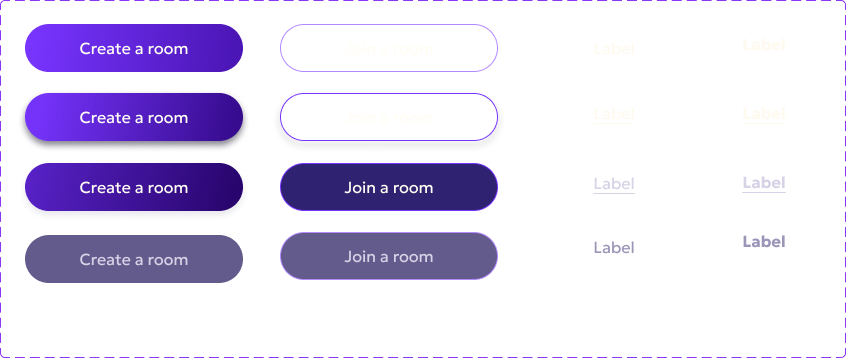
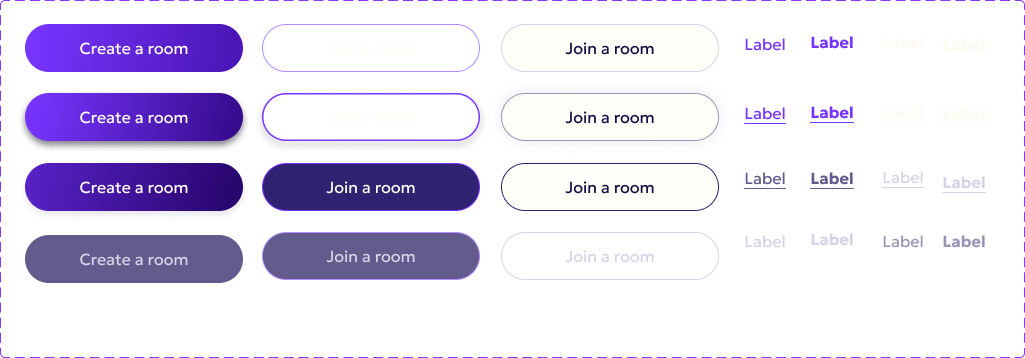
fixed-ui-mistake

diff --git a/src/components/BrandButton/BrandButton.css b/src/components/BrandButton/BrandButton.css
@@ -20,38 +20,58 @@
     transform 0.12s ease,
     box-shadow 0.2s ease,
     background 0.2s ease,
-    border-color 0.2s ease,
-    filter 0.2s ease;
+    border-color 0.2s ease;
 }
 
 .brand-button--primary {
-  background: linear-gradient(90deg, var(--l-violet-light), var(--l-violet-dark));
+  background: linear-gradient(90deg, #7835ff, #4a15b5);
 }
 
 .brand-button--primary:hover {
-  box-shadow: 0 8px 28px rgba(118, 52, 252, 0.45);
-  filter: brightness(1.12);
+  background: linear-gradient(90deg, #7533fa, #370c8e);
+  box-shadow: 0 4px 12px rgba(5, 0, 26, 0.55);
 }
 
 .brand-button--primary:active {
-  background: linear-gradient(90deg, #5d24d4, #3b0f94);
+  background: linear-gradient(90deg, #5721c5, #28056e);
   box-shadow: none;
-  filter: none;
   transform: translateY(1px) scale(0.98);
 }
 
+/* Outlined button on dark surfaces */
 .brand-button--ghost {
   border-color: var(--l-accent);
   background: transparent;
 }
 
 .brand-button--ghost:hover {
-  background: rgba(177, 138, 255, 0.14);
-  box-shadow: 0 0 0 3px rgba(177, 138, 255, 0.12);
+  border-color: #7835ff;
+  box-shadow:
+    inset 0 0 0 0.5px #7835ff,
+    0 4px 10px rgba(0, 0, 30, 0.22);
 }
 
 .brand-button--ghost:active {
-  background: rgba(177, 138, 255, 0.28);
+  border-color: #7835ff;
+  background: #2f2270;
+  box-shadow: none;
+  transform: translateY(1px) scale(0.98);
+}
+
+/* Cream button for light surfaces (UI kit, third column) */
+.brand-button--light {
+  border-color: #d8d2e6;
+  background: #fffdf7;
+  color: #170e43;
+}
+
+.brand-button--light:hover {
+  border-color: #9b95b8;
+  box-shadow: 0 4px 12px rgba(57, 0, 142, 0.1);
+}
+
+.brand-button--light:active {
+  border-color: #2f2270;
   box-shadow: none;
   transform: translateY(1px) scale(0.98);
 }
@@ -61,14 +81,31 @@
   outline-offset: 3px;
 }
 
+.brand-button--light:focus-visible {
+  outline-color: #7835ff;
+}
+
+/* disabled (UI kit): #645b8d fill, lavender text; the outlined one keeps its lilac border */
 .brand-button:disabled,
 .brand-button:disabled:hover,
 .brand-button:disabled:active {
   border-color: transparent;
-  background: #6f6a8c;
+  background: #645b8d;
   box-shadow: none;
-  color: rgba(255, 255, 255, 0.7);
+  color: #d8d2e6;
   cursor: not-allowed;
-  filter: none;
   transform: none;
+}
+
+.brand-button--ghost:disabled,
+.brand-button--ghost:disabled:hover,
+.brand-button--ghost:disabled:active {
+  border-color: var(--l-accent);
+}
+
+.brand-button--light:disabled,
+.brand-button--light:disabled:hover,
+.brand-button--light:disabled:active {
+  border-color: #d8d2e6;
+  background: transparent;
 }

diff --git a/src/components/BrandField/BrandField.css b/src/components/BrandField/BrandField.css
@@ -1,4 +1,4 @@
-/* Figma: 52px tall pill, violet border, hint 14px under the input */
+/* Figma: 52px tall pill, 1px border, hint 14px under the input */
 .brand-field__label {
   display: block;
   margin-bottom: 8px;
@@ -12,6 +12,11 @@
   position: relative;
 }
 
+/*
+ * UI kit states (dark): every state keeps a 1px border, only the fill and the border colour change.
+ * default (empty, idle) #2f2270 fill · hover / focus / filled #170e43 fill · error #930002 border ·
+ * success #00924e border · disabled #645b8d. No glow ring and no icon (removed in the new kit).
+ */
 .brand-field__input {
   display: block;
   width: 100%;
@@ -21,49 +26,46 @@
   border-radius: 999px;
   background: #170e43;
   color: #fffaef;
+  caret-color: #fffaef;
   font-family: var(--l-font-text);
   font-size: 14px;
   transition:
     border-color 0.15s ease,
-    box-shadow 0.15s ease,
     background-color 0.15s ease;
 }
 
 .brand-field__input::placeholder {
   color: #9b95b8;
   opacity: 1;
+  transition: color 0.15s ease;
 }
 
-.brand-field__input:hover {
-  border-color: #d0b6ff;
+/* default: empty and not hovered / focused */
+.brand-field__input:placeholder-shown:not(:hover, :focus, :disabled) {
+  background: #2f2270;
 }
 
 .brand-field__input:focus {
-  border-color: #e6d8ff;
   outline: none;
-  box-shadow: 0 0 0 3px rgba(177, 138, 255, 0.28);
 }
 
-.brand-field__input:disabled {
-  border-color: transparent;
-  background: #6f6a8c;
-  cursor: not-allowed;
+/* focus: the placeholder fades into the fill, only the caret stays visible */
+.brand-field__input:focus::placeholder {
+  color: #2f2270;
 }
 
 .brand-field--error .brand-field__input {
-  padding-right: 52px;
-  border-color: #c1272d;
+  border-color: #930002;
 }
 
-.brand-field--error .brand-field__input:focus {
-  box-shadow: 0 0 0 3px rgba(193, 39, 45, 0.3);
+.brand-field--success .brand-field__input {
+  border-color: #00924e;
 }
 
-.brand-field__error-icon {
-  position: absolute;
-  top: 16px;
-  right: 20px;
-  color: #ff7a80;
+.brand-field__input:disabled {
+  border-color: #645b8d;
+  background: #645b8d;
+  cursor: not-allowed;
 }
 
 .brand-field__message {
@@ -85,9 +87,4 @@
 
 .brand-field__input:read-only:not(:disabled) {
   cursor: text;
-}
-
-/* Lighter fill, as on the "Join a movie room" page */
-.brand-field--raised .brand-field__input {
-  background: #2f2270;
 }

diff --git a/src/components/BrandField/BrandField.jsx b/src/components/BrandField/BrandField.jsx
@@ -2,27 +2,12 @@ import { useId } from 'react';
 import { cx } from '../../utils/classNames.js';
 import './BrandField.css';
 
-function ErrorIcon() {
-  return (
-    <svg
-      className="brand-field__error-icon"
-      width="20"
-      height="20"
-      viewBox="0 0 20 20"
-      aria-hidden="true"
-    >
-      <circle cx="10" cy="10" r="8.5" fill="none" stroke="currentColor" strokeWidth="1.4" />
-      <path d="M10 5.5v5.5" stroke="currentColor" strokeWidth="1.6" strokeLinecap="round" />
-      <circle cx="10" cy="14" r="1" fill="currentColor" />
-    </svg>
-  );
-}
-
 /**
  * Text input of the dark theme: label above, hint under the input (replaced by the error
- * message when there is one). States: default / hover / focus / filled / error / disabled.
+ * message when there is one). States: default / hover / focus / filled / error / success /
+ * disabled. `success` paints the border green (e.g. a valid name); an error wins over it.
  */
-export default function BrandField({ label, hint, error, size, tone, className, ...inputProps }) {
+export default function BrandField({ label, hint, error, success, size, className, ...inputProps }) {
   const id = useId();
   const messageId = `${id}-message`;
   const message = error || hint;
@@ -32,8 +17,8 @@ export default function BrandField({ label, hint, error, size, tone, className, 
       className={cx(
         'brand-field',
         size === 'lg' && 'brand-field--lg',
-        tone === 'raised' && 'brand-field--raised',
         error && 'brand-field--error',
+        !error && success && 'brand-field--success',
         className,
       )}
     >
@@ -50,7 +35,6 @@ export default function BrandField({ label, hint, error, size, tone, className, 
           aria-describedby={message ? messageId : undefined}
           {...inputProps}
         />
-        {error && <ErrorIcon />}
       </div>
       {message && (
         <p className="brand-field__message" id={messageId} role={error ? 'alert' : undefined}>

diff --git a/src/components/JoinRoom/JoinRoom.jsx b/src/components/JoinRoom/JoinRoom.jsx
@@ -31,7 +31,8 @@ export default function JoinRoom({ title, code, onJoined }) {
   const [isSubmitting, setIsSubmitting] = useState(false);
 
   const roomCode = code ?? extractRoomCode(link);
-  const isValid = Boolean(roomCode) && !validateDisplayName(name);
+  const isNameValid = !validateDisplayName(name);
+  const isValid = Boolean(roomCode) && isNameValid;
 
   const linkError =
     !code && isLinkTouched && link.trim() && !roomCode ? BAD_LINK_MESSAGE : serverErrors.link;
@@ -76,10 +77,10 @@ export default function JoinRoom({ title, code, onJoined }) {
             <div className="join-room__fields">
               {!code && (
                 <BrandField
-                  tone="raised"
                   label="Room link"
                   placeholder="Paste the invite link or the room code"
                   error={linkError}
+                  success={Boolean(roomCode)}
                   maxLength={300}
                   value={link}
                   onBlur={() => setIsLinkTouched(true)}
@@ -90,11 +91,11 @@ export default function JoinRoom({ title, code, onJoined }) {
                 />
               )}
               <BrandField
-                tone={code ? undefined : 'raised'}
                 label="Your name"
                 placeholder="Enter your name"
                 hint={code ? undefined : 'This is how other participants will see you.'}
                 error={nameError}
+                success={isNameValid}
                 maxLength={MAX_INPUT_LENGTH}
                 value={name}
                 onChange={(event) => {

diff --git a/src/components/BrandButton/BrandButton.jsx b/src/components/BrandButton/BrandButton.jsx
@@ -2,7 +2,8 @@ import { cx } from '../../utils/classNames.js';
 import './BrandButton.css';
 
 /**
- * Pill button of the new design. variant: 'primary' (violet gradient) | 'ghost' (outlined).
+ * Pill button of the new design. variant: 'primary' (violet gradient) | 'ghost' (outlined)
+ * | 'light' (cream, for light surfaces).
  * `as="a"` renders a link that looks the same (e.g. "Share on Telegram").
  */
 export default function BrandButton({

diff --git a/src/components/LandingHeader/LandingHeader.css b/src/components/LandingHeader/LandingHeader.css
@@ -33,7 +33,7 @@
   line-height: 1;
   cursor: pointer;
   transition:
-    opacity 0.12s ease,
+    color 0.12s ease,
     transform 0.12s ease;
 }
 
@@ -46,8 +46,11 @@
   text-underline-offset: 6px;
 }
 
+/* pressed (UI kit): lavender text, underline stays */
 .landing-header__link:active {
-  opacity: 0.65;
+  color: #d8d2e6;
+  text-decoration: underline;
+  text-underline-offset: 6px;
   transform: scale(0.97);
 }
 

diff --git a/src/components/BrandHeader/BrandHeader.css b/src/components/BrandHeader/BrandHeader.css
@@ -35,7 +35,7 @@
   line-height: 1;
   cursor: pointer;
   transition:
-    opacity 0.12s ease,
+    color 0.12s ease,
     transform 0.12s ease;
 }
 
@@ -44,8 +44,11 @@
   text-underline-offset: 6px;
 }
 
+/* pressed (UI kit): lavender text, underline stays */
 .brand-header__back:active {
-  opacity: 0.65;
+  color: #d8d2e6;
+  text-decoration: underline;
+  text-underline-offset: 6px;
   transform: scale(0.97);
 }
 

diff --git a/src/pages/CreateRoomPage/CreateRoomPage.jsx b/src/pages/CreateRoomPage/CreateRoomPage.jsx
@@ -116,6 +116,7 @@ export default function CreateRoomPage() {
               hint="This is how other participants will see you."
               value={form.hostName}
               error={nameError}
+              success={!validateDisplayName(form.hostName)}
               maxLength={60}
               onChange={handleNameChange}
             />

diff --git a/design/README.md b/design/README.md
@@ -8,3 +8,16 @@ Figma exports for the "What to Watch" (W2W) redesign. Keep them as the source of
 - `ui-kit/text-styles.png` - typography: Hero Geologica Black 96/100, H1 Geologica Black 64/100, H2 Geologica Bold 48/120,
   H3 Geologica Bold 36/120, H4 Geologica Regular 24/135, Main text Inter Regular 16/150, Secondary text Inter Regular 14/150,
   Button text Geologica Regular 16/100 (size / line-height %).
+
+## UI kit v2 (November 2026)
+
+- `ui-kit/UI-Kit-v2.png` - updated kit. Inputs (dark): default #2f2270 fill, hover / focus / filled #170e43, 1px border
+  #b18aff, error border #930002, success border #00924e, disabled #645b8d, no error icon, no glow; focus fades the placeholder.
+  Buttons: ghost hover border #7835ff, pressed #2f2270 fill, disabled #645b8d; new cream "light" button and violet text
+  links for light surfaces; light (cream) inputs.
+- Not built yet (movie picking / results / account pages): progress bar "7 / 20", round icon button (heart),
+  movie navigation (X / heart, "Swipe or tap to vote"), participant progress chips (Done / Swiping... / Waiting...),
+  user menu (name pill with Profile / Settings / Log out), swipe movie card, movie details card (Director, Cast,
+  Age rating, Budget, Revenue, Original language, Close details), result cards ("4 / 4 liked it" with crown, View details;
+  compact "3 / 4 liked it" with Details), translucent header variant, icons (check, crown, star, heart, x, arrow right,
+  mail, lock, eye / eye-off, user, chevrons, Google, Facebook).
